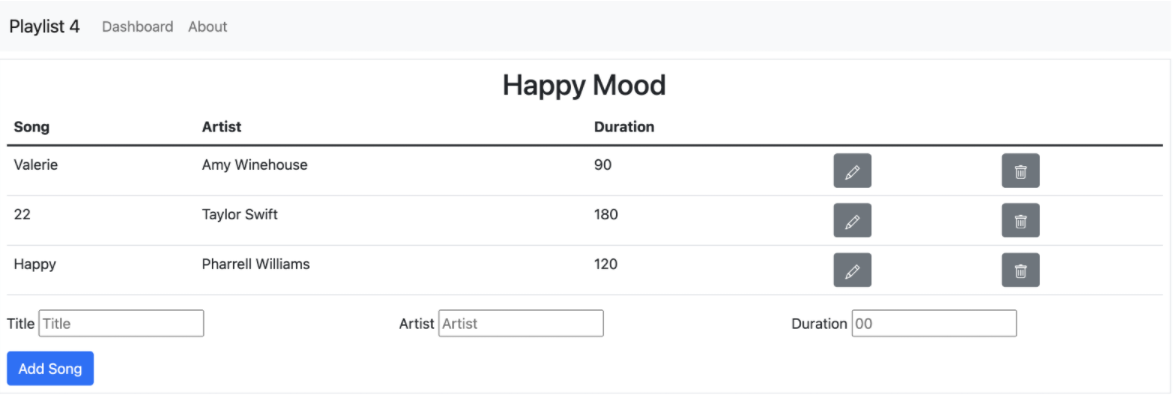
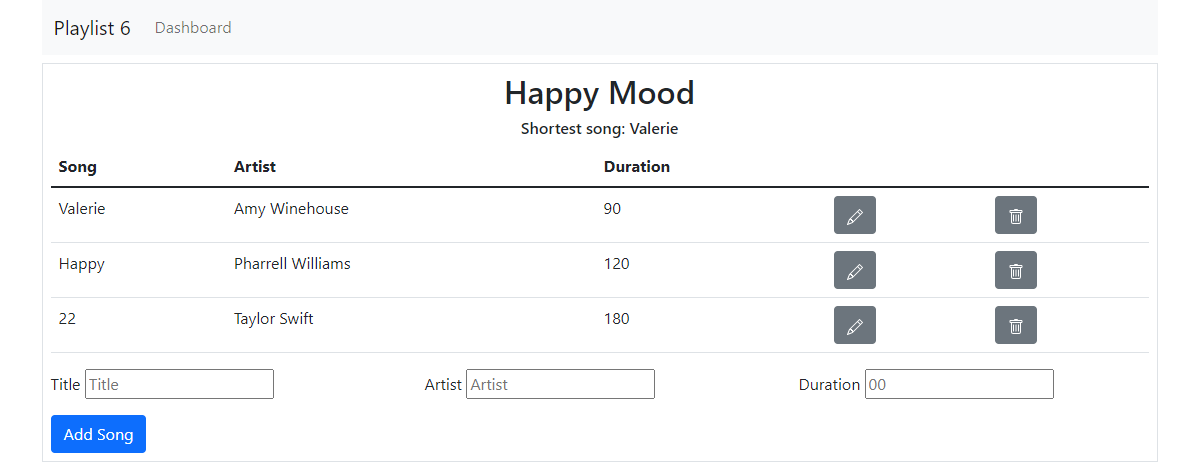
finish off Labs for Playlist App

diff --git a/topic-07-sessions/unit-1/book-b-Playlist-V6/01.02.md b/topic-07-sessions/unit-1/book-b-Playlist-V6/01.02.md
@@ -1,60 +1,18 @@
-## Front End
+## Kürzesten Song finden
 
-### 1. View anpassen
-Wir benötigen einen neuen View mit einem Formular um den Song zu editieren: 
-
-views/song.hbs 
-~~~handlebars
-{{> menu}} 
- 
-<form action="/song/{{playlist.id}}/updatesong/{{song.id}}" method="POST"> 
-    <div class="row"> 
-        <div class="mb-3 col-4"> 
-            <label for="inputTitle" class="form-label">Title</label> 
-            <input placeholder="Title" type="text" class="form-control" id="inputTitle" name="title" value="{{song.title}}"> 
-        </div> 
-        <div class="mb-3 col-4"> 
-            <label for="inputArtist" class="form-label">Artist</label> 
-            <input placeholder="Artist" type="text" class="form-control" id="inputArtist" name="artist" value="{{song.artist}}"> 
-        </div> 
-        <div class="mb-3 col-4"> 
-            <label for="inputDuration" class="form-label">Duration</label> 
-            <input placeholder="00" type="number" class="form-control" id="inputDuration" name="duration" value="{{song.duration}}"> 
-        </div> 
-    </div> 
-    <button type="submit" class="btn btn-primary">Update Song</button> 
-</form> 
+Der kürzeste Song soll ohne eine eigene Datenbank Abfrage errechnet werden. Nachdem für die Anzeige der Songs einer Playlist sowieso alle Songs aus der Datenbank abgefragt werden, ist es relativ einfach, die Liste von Songs nach dem kürzesten zu durchsuchen.
+Ein einfacher Algorithmus dafür könnte wie folgt lauten:
+~~~js
+let shortestSong = null;
+    if (playlist.length > 0) {
+      shortestSong = playlist[0];
+      for (let i = 1; i < playlist.length; i++) {
+        if (playlist[i].duration < shortestSong.duration) {
+          shortestSong = playlist[i];
+        }
+      }
+    } 
 ~~~
 
-We also need to modify the listsongs partial to include an edit button:
-
-views/partials/listsongs.hbs 
-~~~handlebars
-<tbody> 
-    {{#each songs}} 
-        <tr> 
-            <td>{{title}}</td> 
-            <td>{{artist}}</td> 
-            <td>{{duration}}</td> 
-            <td> 
-                <a class="btn btn-secondary" href="/song/{{playlist_id}}/editsong/{{id}}" role="button"> 
-                    <svg xmlns="http://www.w3.org/2000/svg" width="16" height="16" fill="currentColor" class="bi bi-pencil" viewBox="0 0 16 16"> 
-                        <path d="M12.146.146a.5.5 0 0 1 .708 0l3 3a.5.5 0 0 1 0 .708l-10 10a.5.5 0 0 1-.168.11l-5 2a.5.5 0 0 1-.65-.65l2-5a.5.5 0 0 1 .11-.168l10-10zM11.207 2.5 13.5 4.793 14.793 3.5 12.5 1.207 11.207 2.5zm1.586 3L10.5 3.207 4 9.707V10h.5a.5.5 0 0 1 .5.5v.5h.5a.5.5 0 0 1 .5.5v.5h.293l6.5-6.5zm-9.761 5.175-.106.106-1.528 3.821 3.821-1.528.106-.106A.5.5 0 0 1 5 12.5V12h-.5a.5.5 0 0 1-.5-.5V11h-.5a.5.5 0 0 1-.468-.325z"/> 
-                    </svg> 
-                </a> 
-            </td> 
-            <td> 
-                <a class="btn btn-secondary" href="/playlist/{{playlist_id}}/deletesong/{{id}}" role="button"> 
-                    <svg xmlns="http://www.w3.org/2000/svg" width="16" height="16" fill="currentColor" class="bi bi-trash" viewBox="0 0 16 16"> 
-                        <path d="M5.5 5.5A.5.5 0 0 1 6 6v6a.5.5 0 0 1-1 0V6a.5.5 0 0 1 .5-.5zm2.5 0a.5.5 0 0 1 .5.5v6a.5.5 0 0 1-1 0V6a.5.5 0 0 1 .5-.5zm3 .5a.5.5 0 0 0-1 0v6a.5.5 0 0 0 1 0V6z"/> 
-                        <path fill-rule="evenodd" d="M14.5 3a1 1 0 0 1-1 1H13v9a2 2 0 0 1-2 2H5a2 2 0 0 1-2-2V4h-.5a1 1 0 0 1-1-1V2a1 1 0 0 1 1-1H6a1 1 0 0 1 1-1h2a1 1 0 0 1 1 1h3.5a1 1 0 0 1 1 1v1zM4.118 4 4 4.059V13a1 1 0 0 0 1 1h6a1 1 0 0 0 1-1V4.059L11.882 4H4.118zM2.5 3V2h11v1h-11z"/> 
-                    </svg> 
-                </a> 
-            </td> 
-        </tr> 
-    {{/each}} 
-</tbody> 
-~~~
-
-There are two new routes introduced in the above - we will get to them later. 
-
+Der Code iteriert über die Elemente einer Playlist und findet den kürzesten Song, der dann in dem `shortestSong` Objekt gespeichert wird.
+Dieses Objekt kann dann im View genutzt werden.

diff --git a/topic-07-sessions/unit-1/book-b-Playlist-V6/01.05.md b/topic-07-sessions/unit-1/book-b-Playlist-V6/01.05.md
@@ -1,12 +1,83 @@
-## Routen
+## Utils Pattern
 
-The routes we defined in the Frontend step can now be introduced: 
-
-~~~js
-router.get("/song/:id/editsong/:songid", auth.protected, playlist.editSong); 
-router.post("/song/:id/updatesong/:songid", playlist.updateSong); 
+Betrachten Sie die aktuelle `index` Methode des playlist-controllers. 
+~~~ js
+async index(request, response) { 
+    const playlistId = request.params.id; 
+    const playlist = await playlistStore.getPlaylist(playlistId); 
+    const songs = await songStore.getSongsForPlayList(playlistId); 
+    logger.info('Playlist id = ' + playlistId); 
+ 
+    let shortestSong = null; 
+    if (songs.length > 0) { 
+        shortestSong = songs[0]; 
+        for (let i = 1; i < songs.length; i++) { 
+            if (songs[i].duration < shortestSong.duration) { 
+                shortestSong = songs[i]; 
+            } 
+        } 
+    } 
+    logger.info('Shortest song: ',  shortestSong); 
+    const viewData = { 
+        title: 'Playlist', 
+        playlist: playlist, 
+        songs: songs, 
+        shortestSong: shortestSong 
+    }; 
+    response.render('playlist', viewData); 
+}, 
 ~~~
 
-Jetzt testen! Sollte wie oben dargestellt funktionieren! Versuchen Sie unbedingt Schritt für Schritt nachzuvollziehen was der neue Code in diesem Lab macht. 
+Die Methode ist zwar funktional einwandfrei, hat aber das Problem, dass Sie mit mehr Inhalt auch immer unübersichtlicher wird. Sobald weitere Informationen, wie die Gesamtdauer oder der Durchschnittsdauer der Songs gefragt werden, kommt immer mehr Code hinzu.
+Gegen zu viel Code in einer Datei hilft es Code auszugliedern. 
 
-FINISHED IMAGES!
+Das in der Vorlesung besprochene Konzept des Utils Patterns soll nun angewendet werden und ein neues Modul für Playlist-Statistiken erstellt werden.
+
+Legen Sie eine neue Datei `playlist-analytics.js` im `utils` Ordners Ihres Projektes an und kopieren Sie folgenden Code dort hinein: 
+~~~ js
+const songStore = require("../models/song-store.js"); 
+const playlistAnalytics = { 
+    getShortestSong(songs) { 
+        let shortestSong = null; 
+        if (songs.length > 0) { 
+            shortestSong = songs[0]; 
+            for (let i = 1; i < songs.length; i++) { 
+                if (songs[i].duration < shortestSong.duration) { 
+                    shortestSong = songs[i]; 
+                } 
+            } 
+        } 
+        return shortestSong; 
+    }, 
+}; 
+ 
+module.exports = playlistAnalytics; 
+~~~
+
+Die Methode `getShortestSong` ermöglicht es den kürzesten Song in einer Liste aus Songs (Eingabe in die Funktion) zu finden und gibt diese zurück.
+Dank dieser Ausgliederung kann die `index` Methode des Controllers nun vereinfacht werden:.
+
+Zu Beginn des Controllers muss das neue Util importiert werden:
+~~~js
+const playlistAnalytics = require("../utils/playlist-analytics.js"); 
+~~~
+
+Dann kann auf das Modul und insbesondere die `getShortestSong` Methode zugegriffen werden und wie gewohnt an den View weitergegeben werden:
+
+~~~js
+async index(request, response) { 
+    const playlistId = request.params.id; 
+    const playlist = await playlistStore.getPlaylist(playlistId); 
+    const songs = await songStore.getSongsForPlayList(playlistId); 
+    logger.info('Playlist id = ' + playlistId); 
+    let shortestSong = playlistAnalytics.getShortestSong(songs); 
+    logger.info('Shortest song: ',  shortestSong); 
+    const viewData = { 
+        title: 'Playlist', 
+        playlist: playlist, 
+        songs: songs, 
+        shortestSong: shortestSong 
+    }; 
+    response.render('playlist', viewData); 
+}, 
+~~~

diff --git a/topic-07-sessions/unit-1/book-b-Playlist-V6/01.03.md b/topic-07-sessions/unit-1/book-b-Playlist-V6/01.03.md
@@ -1,31 +1,53 @@
-## Model Änderungen
+## Implementation im Controller
 
+Die soeben gesehene Implemention lässt sich am einfachsten in den Playlist Controller integrieren. Dort werden die Daten für die Playlist Übersicht vorbereitet.
 
+Der Controller `playlist.js` sieht aktuell wie folgt aus: 
 
-To support update, we extend the song-store.js component with 2 additional methods:
-models/song-store.js
 ~~~ js
-async getSong(songId) { 
-    const query = 'SELECT * FROM playlist4_songs WHERE id=$1'; 
-    const values = [songId]; 
-    try { 
-        let result = await dataStoreClient.query(query, values); 
-        return result.rows[0]; 
-    } catch (e) { 
-        logger.error("Error fetching song" ,e); 
-    } 
+async index(request, response) { 
+    const playlistId = request.params.id; 
+    const playlist = await playlistStore.getPlaylist(playlistId); 
+    const songs = await songStore.getSongsForPlayList(playlistId); 
+    logger.info('Playlist id = ' + playlistId); 
+    const viewData = { 
+        title: 'Playlist', 
+        playlist: playlist, 
+        songs: songs 
+    }; 
+    response.render('playlist', viewData); 
 }, 
-async updateSong(song, newSong) { 
-    const query = "UPDATE playlist4_songs SET TITLE=$1, ARTIST=$2, DURATION=$3 WHERE id=$4"; 
-    const values = [newSong.title, newSong.artist, newSong.duration, song.id]; 
-    try { 
-        await dataStoreClient.query(query, values); 
-    } catch (e) { 
-        logger.error("Error updating song", e); 
-    } 
-} 
 ~~~
 
-getSong retrieves a song object given its playlist + song id.
+Der Algorithmus zum Finden des kürzesten Songs kann dort einfach eingesetzt werden:
+~~~ js
+async index(request, response) { 
+    const playlistId = request.params.id; 
+    const playlist = await playlistStore.getPlaylist(playlistId); 
+    const songs = await songStore.getSongsForPlayList(playlistId); 
+    logger.info('Playlist id = ' + playlistId); 
+ 
+    let shortestSong = null; 
+    if (songs.length > 0) { 
+        shortestSong = songs[0]; 
+        for (let i = 1; i < songs.length; i++) { 
+            if (songs[i].duration < shortestSong.duration) { 
+                shortestSong = songs[i]; 
+            } 
+        } 
+    } 
+    logger.info('Shortest song: ',  shortestSong); 
+    const viewData = { 
+        title: 'Playlist', 
+        playlist: playlist, 
+        songs: songs,
+        shortestSong: shortestSong 
+    }; 
+    response.render('playlist', viewData); 
+}, 
+~~~
 
-updateSong accepts an existing song + modified (edited) version of the song, overwrites each field (whether it is changed or not), and then saves the updated song. 
+Der Controller übergibt dem View nun, neben dem Playlist Titel und den Playlist-Inhalten auch den kürzesten Song im Objekt `shortestSong`.
+
+
+

diff --git a/topic-07-sessions/unit-1/book-b-Playlist-V6/01.04.md b/topic-07-sessions/unit-1/book-b-Playlist-V6/01.04.md
@@ -1,41 +1,16 @@
-## Controller
+## View Anpassung
 
-Auch den Controller entsprechend anpassen:
-
-# TODO Beide Controller-Methoden erläutern! 
-
-The `editSong` method just displays the song - it requires the playlist and song ids on the route.
-
-The`update`method expects the same route ids + a payload of the edited song fields.
-
-These controller methods use the new model methods we have introduced in the last step.
-controllers/playlist.js
-~~~js
-async editSong(request, response) { 
-    const playlistId = request.params.id; 
-    const songId = request.params.songid; 
-    logger.debug(`Editing Song ${songId} from Playlist ${playlistId}`); 
-    let playList = await playlistStore.getPlaylist(playlistId); 
-    let song = await songStore.getSong(songId); 
-    logger.info("Editing song", song); 
-    const viewData = { 
-        title: "Edit Song", 
-        playlist: playList, 
-        song: song 
-    }; 
-    response.render("song", viewData); 
-}, 
-async updateSong(request, response) { 
-    const playlistId = request.params.id; 
-    const songId = request.params.songid; 
-    const song = await songStore.getSong(songId); 
-    const newSong = { 
-        title: request.body.title, 
-        artist: request.body.artist, 
-        duration: Number(request.body.duration) 
-    }; 
-    logger.debug(`Updating Song ${songId} from Playlist ${playlistId}`); 
-    await songStore.updateSong(song, newSong); 
-    response.redirect("/playlist/" + playlistId); 
-} 
+Die soeben im Controller vorbereiteten Daten können nun im View genutzt werden.
+Zur Erinnerung: Ziel ist es, in der Playlist Übersicht den kürzesten Song anzuzeigen. Dazu kann der View `playlist.hbs` nun einfach wie folgt modifiziert werden:
+~~~handlebars
+div class="border p-2 my-2"> 
+    <h2 class="text-center">{{playlist.title}}</h2> 
+    <h6 class="text-center">Shortest song: {{shortestSong.title}}</h6> 
+    {{> listsongs}} 
+    {{> addsong}} 
+</div> 
 ~~~
+
+Das Ergebnis sollte dann so aussehen: 
+![img.png](img/img_fin.png)
+

diff --git a/topic-07-sessions/unit-1/book-b-Playlist-V6/01.06.md b/topic-07-sessions/unit-1/book-b-Playlist-V6/01.06.md
@@ -1,0 +1,26 @@
+## Self Study
+
+### 1. Aufgabe: Anzeige der Gesamtdauer einer Playlist
+
+Zeigen Sie im `playlist.hbs` View neben dem kürzesten Song nun auch die Gesamtdauer der Playlist an. Arbeiten Sie mit dem bekannten Utils Pattern.
+
+Das Ergebnis sollte dann so aussehen:
+![img.png](img/img_ex1.png)
+
+
+### 2. Aufgabe: 
+
+Zur Lösung der letzten Aufgabe übergeben Sie dem Playlist View wahrscheinlich 2 verschiedene Objekte. Ein Objekt für den kürzesten Song und ein Objekt für die Gesamtdauer:
+
+~~~ js
+const viewData = {
+      title: "Playlist",
+      playlist: playlistStore.getPlaylist(playlistId),
+      shortestSong: shortestSong,
+      duration: duration
+    };
+~~~
+Das funktioniert zwar einwandfrei, wird aber bei hinzukommenden Attributen immer unübersichtlicher. Vereinigen Sie deswegen die Gesamtdauer und den kürzesten Song in ein gemeinsames Objekt `playlistSummary`.
+
+
+

diff --git a/topic-07-sessions/unit-1/book-b-Playlist-V6/00.Playlist App V6.md b/topic-07-sessions/unit-1/book-b-Playlist-V6/00.Playlist App V6.md
@@ -4,4 +4,4 @@ Die Playlist App, an der Sie bereits letzte Woche gearbeitet haben, soll nun erw
 
 Utils pattern kennenlernen, wenn mehr „Business Logik benötigt“ am Beispiel der Anzeige des kürzesten Songs. 
 
-![img.png](img.png)
+![img.png](img/img_fin.png)

diff --git a/topic-01-HTML-CSS/unit-1/book-b-html-einfuehrung/00.Lab HTML.md b/topic-01-HTML-CSS/unit-1/book-b-html-einfuehrung/00.Lab HTML.md
@@ -1,6 +1,6 @@
 # Ziele
 
-Aktuell ist einer der wichtigsten Sprachen im WEB HTML. Mit ihr lässt sich der Inhalt
+Einer der wichtigsten Sprachen im WEB HTML. Mit ihr lässt sich der Inhalt
 einer Website definieren.
 
 Nachfolgend sollen Sie in diesem Lab:

diff --git a/topic--intro/topic.md b/topic--intro/topic.md
@@ -1,3 +1,3 @@
-00: Einleitung zu Webtechnologien
+0: Einleitung zu Webtechnologien
 
-WebDev is epic!
+Generelle Kursinformationen.

diff --git a/topic--intro/unit-0-introduction/topic.md b/topic--intro/unit-0-introduction/topic.md
@@ -1,4 +1,4 @@
-Currently Empty - More Info may appear soon.
+Coming Soon.
 
 # Flo`s Worksheet:
 
